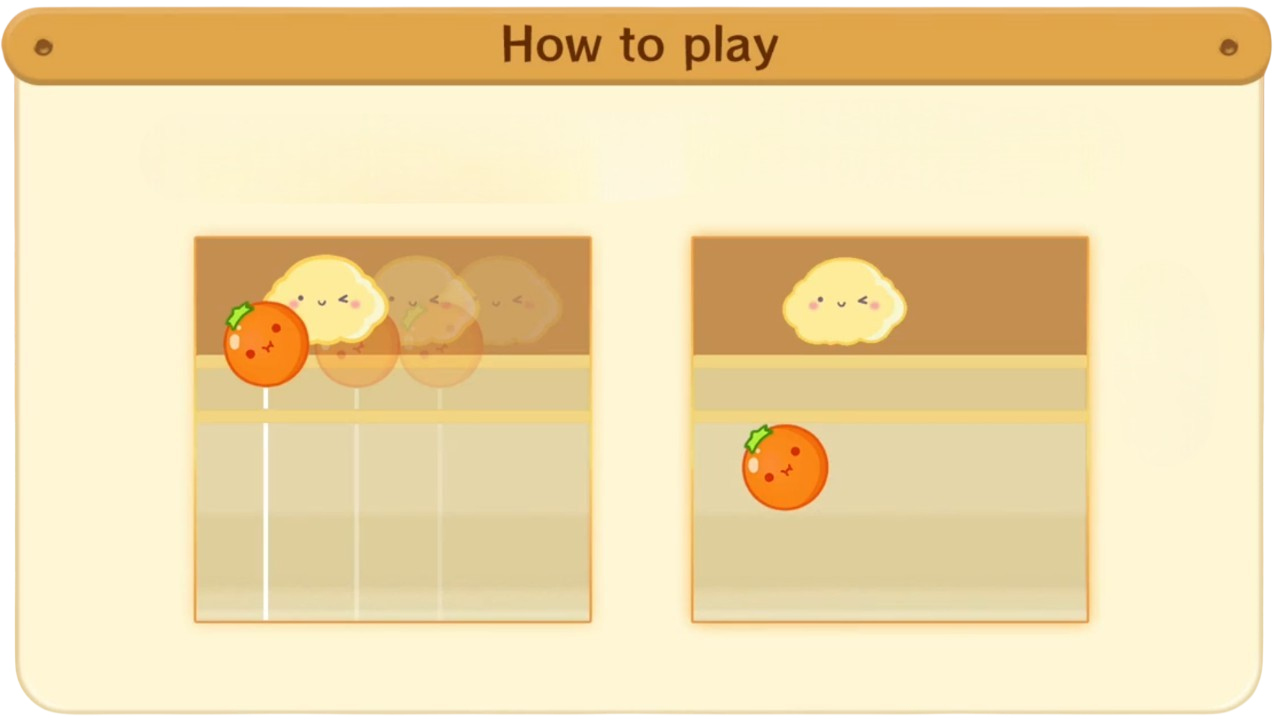
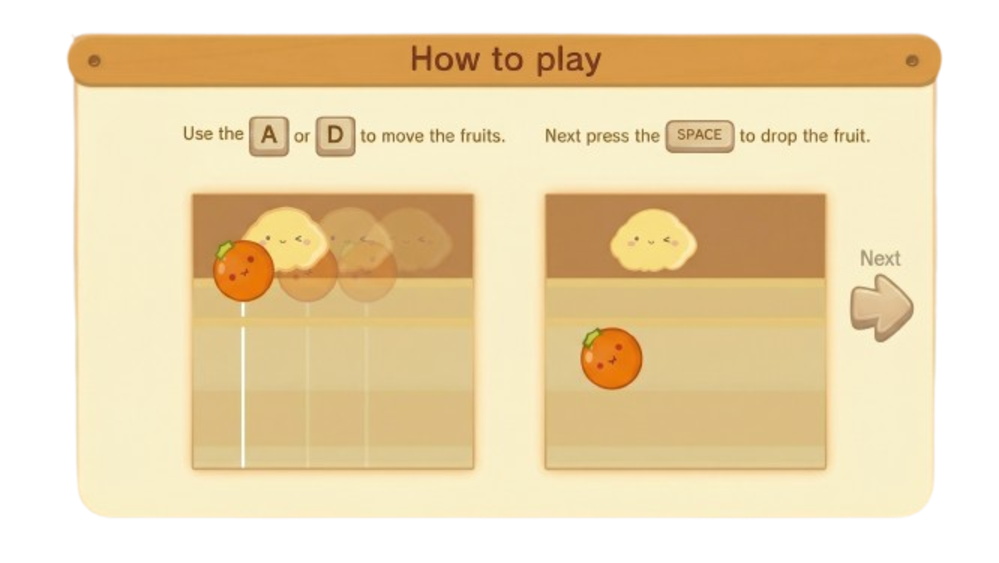
gameplay

diff --git a/src/StartMenu.cpp b/src/StartMenu.cpp
@@ -1,5 +1,5 @@
 #include "StartMenu.hpp"
-#include "Util/Image.hpp" // 解決 'Image' is not a member of 'Util' 的問題
+#include "Util/Image.hpp"
 #include "Util/Input.hpp"
 #include "Util/Keycode.hpp"
 #include "Util/Logger.hpp"
@@ -26,41 +26,90 @@ StartMenu::StartMenu() {
     m_BtnHowTo->SetZIndex(1);
     m_BtnHowTo->m_Transform.translation = {0.0f, -200.0f};
 
+    // 👇 新增：初始化教學畫面物件 (ZIndex 設為 10，確保蓋在主選單上面)
+    m_HowToPlayScreen = std::make_shared<Util::GameObject>();
+    m_HowToPlayScreen->SetZIndex(10);
+    m_HowToPlayScreen->m_Transform.translation = {0.0f, 0.0f};
+
     UpdateButtonVisuals();
 }
 
 void StartMenu::Update() {
-    if (Util::Input::IsKeyUp(Util::Keycode::UP)) {
-        if (m_CurrentOption == MenuOption::MY_SCORE) {
-            m_CurrentOption = MenuOption::GAME_START;
-        } else if (m_CurrentOption == MenuOption::HOW_TO_PLAY) {
-            m_CurrentOption = MenuOption::MY_SCORE;
+    // ==========================================
+    // 狀態 1：如果在「教學畫面」中
+    // ==========================================
+    if (m_IsShowingHowToPlay) {
+        // 按 D 鍵：下一頁
+        if (Util::Input::IsKeyUp(Util::Keycode::D)) {
+            if (m_HowToPlayPage < 3) {
+                m_HowToPlayPage++;
+                UpdateHowToPlayVisuals();
+            }
         }
-        UpdateButtonVisuals();
+        // 按 A 鍵：上一頁
+        if (Util::Input::IsKeyUp(Util::Keycode::A)) {
+            if (m_HowToPlayPage > 1) {
+                m_HowToPlayPage--;
+                UpdateHowToPlayVisuals();
+            }
+        }
+        // 按下空白鍵或 ESC 鍵：關閉教學畫面
+        if (Util::Input::IsKeyUp(Util::Keycode::SPACE) || Util::Input::IsKeyUp(Util::Keycode::ESCAPE)) {
+            m_IsShowingHowToPlay = false;
+        }
+    }
+    // ==========================================
+    // 狀態 2：如果在「主選單」中
+    // ==========================================
+    else {
+        // W 鍵：往上
+        if (Util::Input::IsKeyUp(Util::Keycode::W)) {
+            if (m_CurrentOption == MenuOption::MY_SCORE) {
+                m_CurrentOption = MenuOption::GAME_START;
+            } else if (m_CurrentOption == MenuOption::HOW_TO_PLAY) {
+                m_CurrentOption = MenuOption::MY_SCORE;
+            }
+            UpdateButtonVisuals();
+        }
+
+        // S 鍵：往下
+        if (Util::Input::IsKeyUp(Util::Keycode::S)) {
+            if (m_CurrentOption == MenuOption::GAME_START) {
+                m_CurrentOption = MenuOption::MY_SCORE;
+            } else if (m_CurrentOption == MenuOption::MY_SCORE) {
+                m_CurrentOption = MenuOption::HOW_TO_PLAY;
+            }
+            UpdateButtonVisuals();
+        }
+
+        // 👇 將原本的 RETURN 改為 SPACE (空白鍵選擇)
+        if (Util::Input::IsKeyUp(Util::Keycode::SPACE)) {
+            if (m_CurrentOption == MenuOption::GAME_START) {
+                LOG_TRACE("Game Started!");
+                m_IsGameStarted = true;
+            } else if (m_CurrentOption == MenuOption::HOW_TO_PLAY) {
+                // 開啟教學畫面，並將頁數初始化為第 1 頁
+                m_IsShowingHowToPlay = true;
+                m_HowToPlayPage = 1;
+                UpdateHowToPlayVisuals();
+            }
+        }
     }
 
-    if (Util::Input::IsKeyUp(Util::Keycode::DOWN)) {
-        if (m_CurrentOption == MenuOption::GAME_START) {
-            m_CurrentOption = MenuOption::MY_SCORE;
-        } else if (m_CurrentOption == MenuOption::MY_SCORE) {
-            m_CurrentOption = MenuOption::HOW_TO_PLAY;
-        }
-        UpdateButtonVisuals();
-    }
-
-    if (Util::Input::IsKeyUp(Util::Keycode::RETURN)) {
-        if (m_CurrentOption == MenuOption::GAME_START) {
-            LOG_TRACE("Game Started!");
-        }
-    }
-
+    // --- 繪製畫面 ---
     if (m_Background) m_Background->Draw();
     if (m_Logo) m_Logo->Draw();
     if (m_BtnStart) m_BtnStart->Draw();
     if (m_BtnScore) m_BtnScore->Draw();
     if (m_BtnHowTo) m_BtnHowTo->Draw();
+
+    // 👇 如果處於教學模式，就把教學圖片畫在最上層
+    if (m_IsShowingHowToPlay && m_HowToPlayScreen) {
+        m_HowToPlayScreen->Draw();
+    }
 }
 
+// 原本的按鈕圖片更新保持不變
 void StartMenu::UpdateButtonVisuals() {
     if (m_CurrentOption == MenuOption::GAME_START) {
         m_BtnStart->SetDrawable(std::make_shared<Util::Image>("Resources/material/first page/button/startbutton2.png"));
@@ -76,5 +125,16 @@ void StartMenu::UpdateButtonVisuals() {
         m_BtnStart->SetDrawable(std::make_shared<Util::Image>("Resources/material/first page/button/startbutton1.png"));
         m_BtnScore->SetDrawable(std::make_shared<Util::Image>("Resources/material/first page/button/myscorebutton1.png"));
         m_BtnHowTo->SetDrawable(std::make_shared<Util::Image>("Resources/material/first page/button/howtoplaybutton2.png"));
+    }
+}
+
+// 👇 新增：根據 m_HowToPlayPage 抽換教學圖片
+void StartMenu::UpdateHowToPlayVisuals() {
+    if (m_HowToPlayPage == 1) {
+        m_HowToPlayScreen->SetDrawable(std::make_shared<Util::Image>("Resources/material/first page/howtoplay/howtoplay1.png"));
+    } else if (m_HowToPlayPage == 2) {
+        m_HowToPlayScreen->SetDrawable(std::make_shared<Util::Image>("Resources/material/first page/howtoplay/howtoplay2.png"));
+    } else if (m_HowToPlayPage == 3) {
+        m_HowToPlayScreen->SetDrawable(std::make_shared<Util::Image>("Resources/material/first page/howtoplay/howtoplay3.png"));
     }
 }

diff --git a/src/Gameplay.cpp b/src/Gameplay.cpp
@@ -1,0 +1,78 @@
+#include "Gameplay.hpp"
+#include "Util/Image.hpp"
+
+Gameplay::Gameplay() {
+    // === 1. 載入背景圖 ===
+    m_Background = std::make_shared<Util::GameObject>();
+    m_Background->SetDrawable(std::make_shared<Util::Image>("Resources/material/gameplaybg.png"));
+    m_Background->SetZIndex(0);
+    m_Background->m_Transform.translation = {0.0f, 0.0f};
+    m_Background->m_Transform.scale = {1.0f, 1.0f};
+
+    // === 2. 載入容器盒 ===
+    m_Container = std::make_shared<Util::GameObject>();
+    m_Container->SetDrawable(std::make_shared<Util::Image>("Resources/material/container.png"));
+    m_Container->SetZIndex(1);
+    m_Container->m_Transform.translation = {0.0f, -30.0f};
+    m_Container->m_Transform.scale = {0.65f, 0.65f}; // 容器大小維持這樣看起來很剛好
+
+    // === 3. 載入上方的雲 ===
+    m_Cloud = std::make_shared<Util::GameObject>();
+    m_Cloud->SetDrawable(std::make_shared<Util::Image>("Resources/material/cloud.png"));
+    m_Cloud->SetZIndex(10);
+    m_Cloud->m_Transform.translation = {0.0f, 310.0f}; // 稍微往上移
+    m_Cloud->m_Transform.scale = {1.5f, 1.5f}; // 👇 大幅放大
+
+    // === 4. 載入 UI 文字與框框 ===
+
+    // 左上角 Score Label
+    m_ScoreLabel = std::make_shared<Util::GameObject>();
+    m_ScoreLabel->SetDrawable(std::make_shared<Util::Image>("Resources/material/score.png"));
+    m_ScoreLabel->SetZIndex(1);
+    m_ScoreLabel->m_Transform.translation = {-350.0f, 250.0f};
+    m_ScoreLabel->m_Transform.scale = {1.0f, 1.0f}; // 👇 放大
+
+    // 右上角 Next Label
+    m_NextLabel = std::make_shared<Util::GameObject>();
+    m_NextLabel->SetDrawable(std::make_shared<Util::Image>("Resources/material/next.png"));
+    m_NextLabel->SetZIndex(2);
+    m_NextLabel->m_Transform.translation = {425.0f, 280.0f}; // 統一 X 座標
+    m_NextLabel->m_Transform.scale = {0.3f, 0.3f}; // 👇 大幅縮小！
+
+    // 右上角 泡泡框
+    m_NextBubble = std::make_shared<Util::GameObject>();
+    m_NextBubble->SetDrawable(std::make_shared<Util::Image>("Resources/material/nextfruitbubble.png"));
+    m_NextBubble->SetZIndex(1);
+    m_NextBubble->m_Transform.translation = {425.0f, 150.0f}; // 放在 Next 下方
+    m_NextBubble->m_Transform.scale = {0.7f, 0.7f}; // 👇 縮小一點來配 Next
+
+    // 右側中間 進化圈 Label
+    m_EvolutionLabel = std::make_shared<Util::GameObject>();
+    m_EvolutionLabel->SetDrawable(std::make_shared<Util::Image>("Resources/material/circleofevolution.png"));
+    m_EvolutionLabel->SetZIndex(2);
+    m_EvolutionLabel->m_Transform.translation = {425.0f, -20.0f}; // 往上拉一點
+    m_EvolutionLabel->m_Transform.scale = {0.8f, 0.8f}; // 👇 放大
+
+    // 右下角 進化圈圖
+    m_EvolutionCircle = std::make_shared<Util::GameObject>();
+    m_EvolutionCircle->SetDrawable(std::make_shared<Util::Image>("Resources/material/fruitcircle.png"));
+    m_EvolutionCircle->SetZIndex(1);
+    m_EvolutionCircle->m_Transform.translation = {425.0f, -160.0f}; // 對齊泡泡跟文字
+    m_EvolutionCircle->m_Transform.scale = {0.55f, 0.55f}; // 稍微放大一點點
+}
+
+void Gameplay::Update() {
+    // 繪製順序：背景先畫，然後畫上面的元件
+    if (m_Background) m_Background->Draw();
+    if (m_Container) m_Container->Draw();
+
+    // 畫 UI 元件
+    if (m_ScoreLabel) m_ScoreLabel->Draw();
+    if (m_NextLabel) m_NextLabel->Draw();
+    if (m_NextBubble) m_NextBubble->Draw();
+    if (m_EvolutionLabel) m_EvolutionLabel->Draw();
+    if (m_EvolutionCircle) m_EvolutionCircle->Draw();
+
+    // 雲放最後畫，確保它蓋在盒子上面
+    if (m_Cloud) m_Cloud->Draw();
+}

diff --git a/src/App.cpp b/src/App.cpp
@@ -1,5 +1,6 @@
 #include "App.hpp"
 #include "StartMenu.hpp"
+#include "Gameplay.hpp" // 👇 新增：記得引入 Gameplay 標頭檔
 
 #include "Util/Image.hpp"
 #include "Util/Input.hpp"
@@ -12,14 +13,36 @@ void App::Start() {
     // 1. 實例化並載入選單
     m_StartMenu = std::make_shared<StartMenu>();
 
+    // 遊戲場景一開始先不載入 (設為空指標)
+    m_Gameplay = nullptr;
+
     // 👇 絕對不能註解掉這行！必須切換到 UPDATE，main.cpp 才會開始畫圖！
     m_CurrentState = State::UPDATE;
 }
 
 void App::Update() {
-    // 2. 因為我們現在的狀態是 UPDATE，所以直接執行選單的邏輯即可
+    // ==========================================
+    // 場景切換狀態機
+    // ==========================================
+
+    // 狀態 A：如果選單還在，就更新選單
     if (m_StartMenu) {
-        m_StartMenu->Update(); // 這裡面包含了按鍵偵測與 Draw()
+        m_StartMenu->Update();
+
+        // 檢查選單是否發出了「遊戲開始」的訊號
+        if (m_StartMenu->IsGameStarted()) {
+            LOG_TRACE("Switching to Gameplay Scene!");
+
+            // 1. 載入並初始化 Gameplay 場景
+            m_Gameplay = std::make_shared<Gameplay>();
+
+            // 2. 把選單指標清空 (銷毀 StartMenu，釋放記憶體)
+            m_StartMenu = nullptr;
+        }
+    }
+    // 狀態 B：如果選單已經被銷毀，且遊戲場景存在，就更新遊戲場景
+    else if (m_Gameplay) {
+        m_Gameplay->Update();
     }
 
     // --------------------------------------------------------

diff --git a/include/StartMenu.hpp b/include/StartMenu.hpp
@@ -2,14 +2,10 @@
 #define STARTMENU_HPP
 
 #include "Util/GameObject.hpp"
-#include "Util/Image.hpp"
-#include "Util/Input.hpp"
-#include "Util/Keycode.hpp"
 #include <memory>
 
 class StartMenu {
 public:
-    // 定義三個按鈕的狀態
     enum class MenuOption {
         GAME_START,
         MY_SCORE,
@@ -20,9 +16,15 @@ public:
     void Update();
 
     MenuOption GetCurrentOption() const { return m_CurrentOption; }
+    bool IsGameStarted() const { return m_IsGameStarted; }
 
 private:
     MenuOption m_CurrentOption = MenuOption::GAME_START;
+    bool m_IsGameStarted = false;
+
+    // 👇 新增：用來記錄是否正在顯示教學畫面，以及目前在第幾頁
+    bool m_IsShowingHowToPlay = false;
+    int m_HowToPlayPage = 1;
 
     // 宣告 UI 遊戲物件
     std::shared_ptr<Util::GameObject> m_Background;
@@ -31,8 +33,13 @@ private:
     std::shared_ptr<Util::GameObject> m_BtnScore;
     std::shared_ptr<Util::GameObject> m_BtnHowTo;
 
-    // 更新按鈕圖片的方法
+    // 👇 新增：用來顯示教學圖片的 GameObject
+    std::shared_ptr<Util::GameObject> m_HowToPlayScreen;
+
     void UpdateButtonVisuals();
+
+    // 👇 新增：用來更新教學圖片的方法
+    void UpdateHowToPlayVisuals();
 };
 
 #endif // STARTMENU_HPP

diff --git a/include/Gameplay.hpp b/include/Gameplay.hpp
@@ -1,0 +1,28 @@
+#ifndef GAMEPLAY_HPP
+#define GAMEPLAY_HPP
+
+#include "Util/GameObject.hpp"
+#include <memory>
+
+class Gameplay {
+public:
+    Gameplay(); // 建構子：負責載入素材與設定位置
+    void Update(); // 每一幀呼叫：負責繪製
+
+private:
+    // --- 靜態背景物件 ---
+    std::shared_ptr<Util::GameObject> m_Background; // 整體背景
+    std::shared_ptr<Util::GameObject> m_Container;  // 水果容器盒
+
+    // --- UI 元件 ---
+    std::shared_ptr<Util::GameObject> m_ScoreLabel;      // "SCORE" 文字圖片
+    std::shared_ptr<Util::GameObject> m_NextLabel;       // "NEXT" 文字圖片
+    std::shared_ptr<Util::GameObject> m_NextBubble;      // "NEXT" 下方泡泡框
+    std::shared_ptr<Util::GameObject> m_EvolutionLabel; // "Circle of evolution" 文字
+    std::shared_ptr<Util::GameObject> m_EvolutionCircle; // 水果進化圈圖
+
+    // --- 準備區域 ---
+    std::shared_ptr<Util::GameObject> m_Cloud; // 上方的雲 (水果準備區)
+};
+
+#endif // GAMEPLAY_HPP

diff --git a/include/App.hpp b/include/App.hpp
@@ -4,7 +4,8 @@
 #include "pch.hpp" // IWYU pragma: export
 #include <memory>
 
-class StartMenu; // 這是關鍵的前置宣告
+class StartMenu;
+class Gameplay;
 
 class App {
 public:
@@ -24,9 +25,8 @@ private:
 
 private:
     State m_CurrentState = State::START;
-
-    // 儲存選單的指標
     std::shared_ptr<StartMenu> m_StartMenu;
+    std::shared_ptr<Gameplay> m_Gameplay;
 };
 
 #endif
